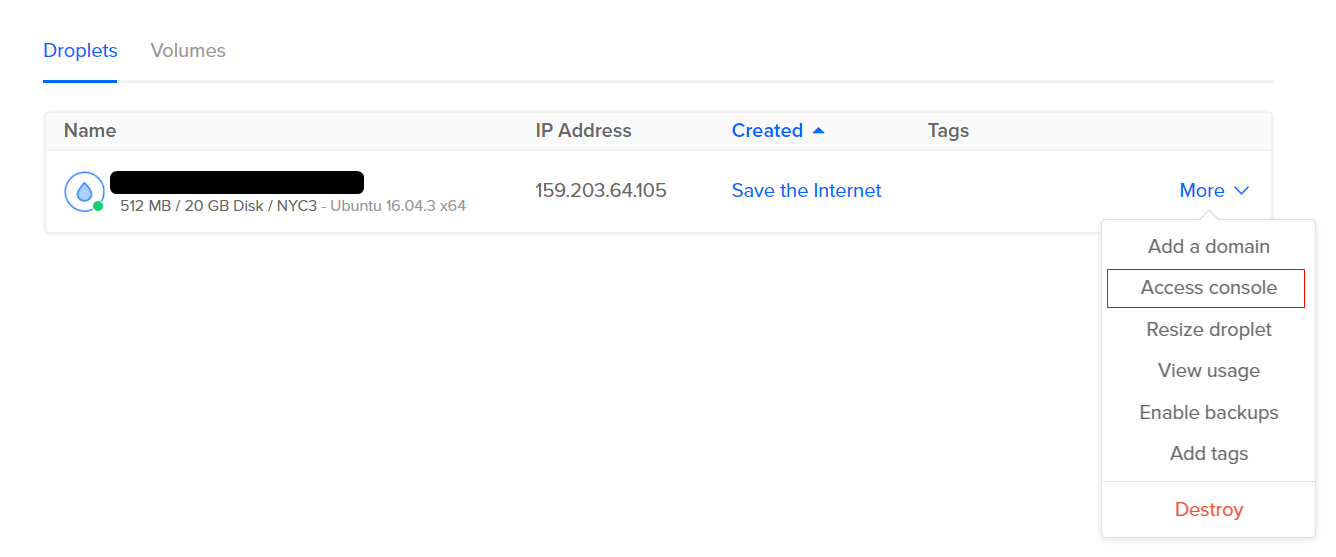
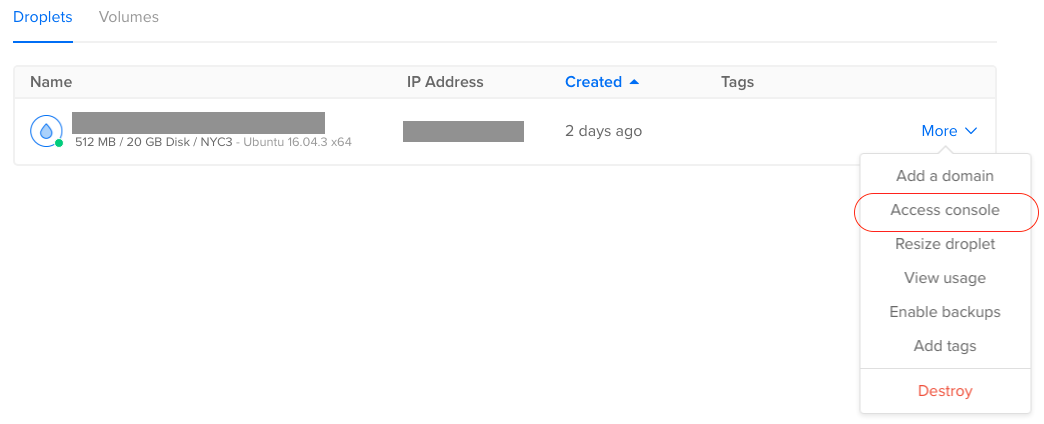
testing relative link

diff --git a/guides/DigitalOcean Tutorial.md b/guides/DigitalOcean Tutorial.md
@@ -20,7 +20,7 @@ DigitalOcean is a cloud infrastructure provider focused on simplifying web infra
 
 In this tutorial, we'll be offering you a $10 coupon, which can cover the cost of the most basic tier of server for 2 months. And of course you may choose to use it for higher tiers but for a shorter period. Simply click this link to create your account to get the $10 coupon: [https://m.do.co/c/d54c088544ed](https://m.do.co/c/d54c088544ed). If the link doesn't work, simply paste it into your browser.
 
-![Create an account](assets/DigitalOcean/create_account.png =200x200)
+![Create an account](assets/DigitalOcean/create_account.png)
 
 After clicking the link, you should be seeing a page like above. Simply create your account at the left-bottom corner and you'll receive the $10 coupon automatically. Beware that you'll be asked to provide payment info when creating the account, since all services (you chose) in DigitalOcean will be charged.
 
@@ -46,7 +46,7 @@ In our example, we do not need to add any other services such as block storage o
 
 ## Connecting to our droplet
 
-<img src='access-consle' width=300>
+![DigitalOcean Access Console](assets/DigitalOcean/access_console.png)
 
 Once you've created your `Droplet`, you will receive an email containing your login (`root`) and initial password for it. Now click the "Access Console" option in the dropdown menu associated with your `Droplet` as shown in above picture.
 
